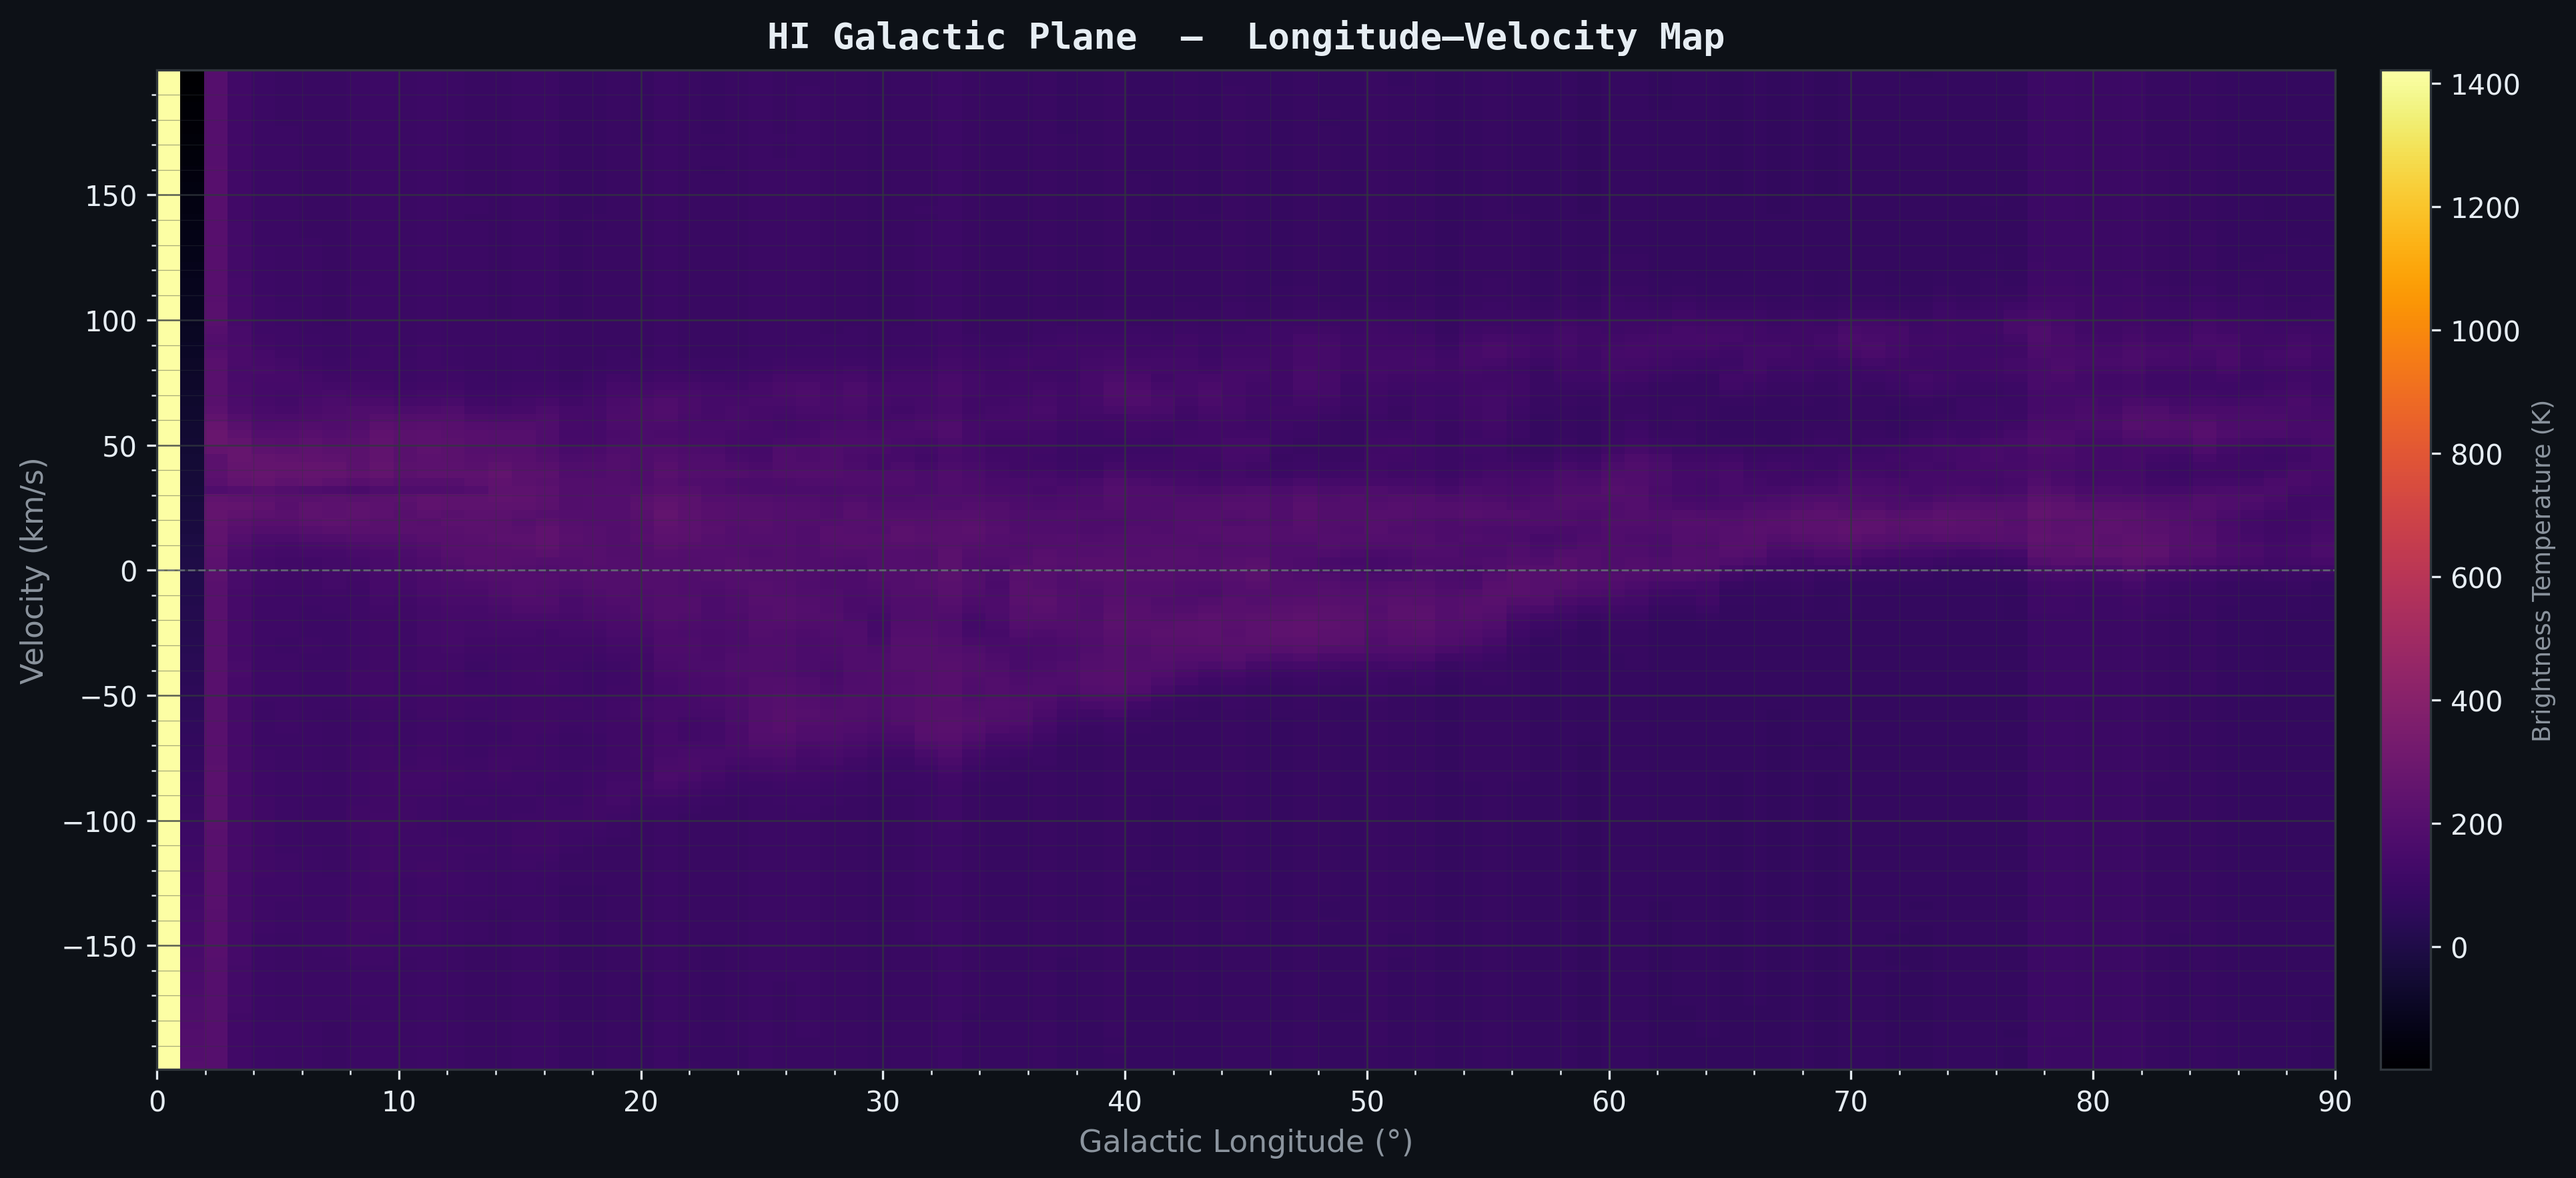
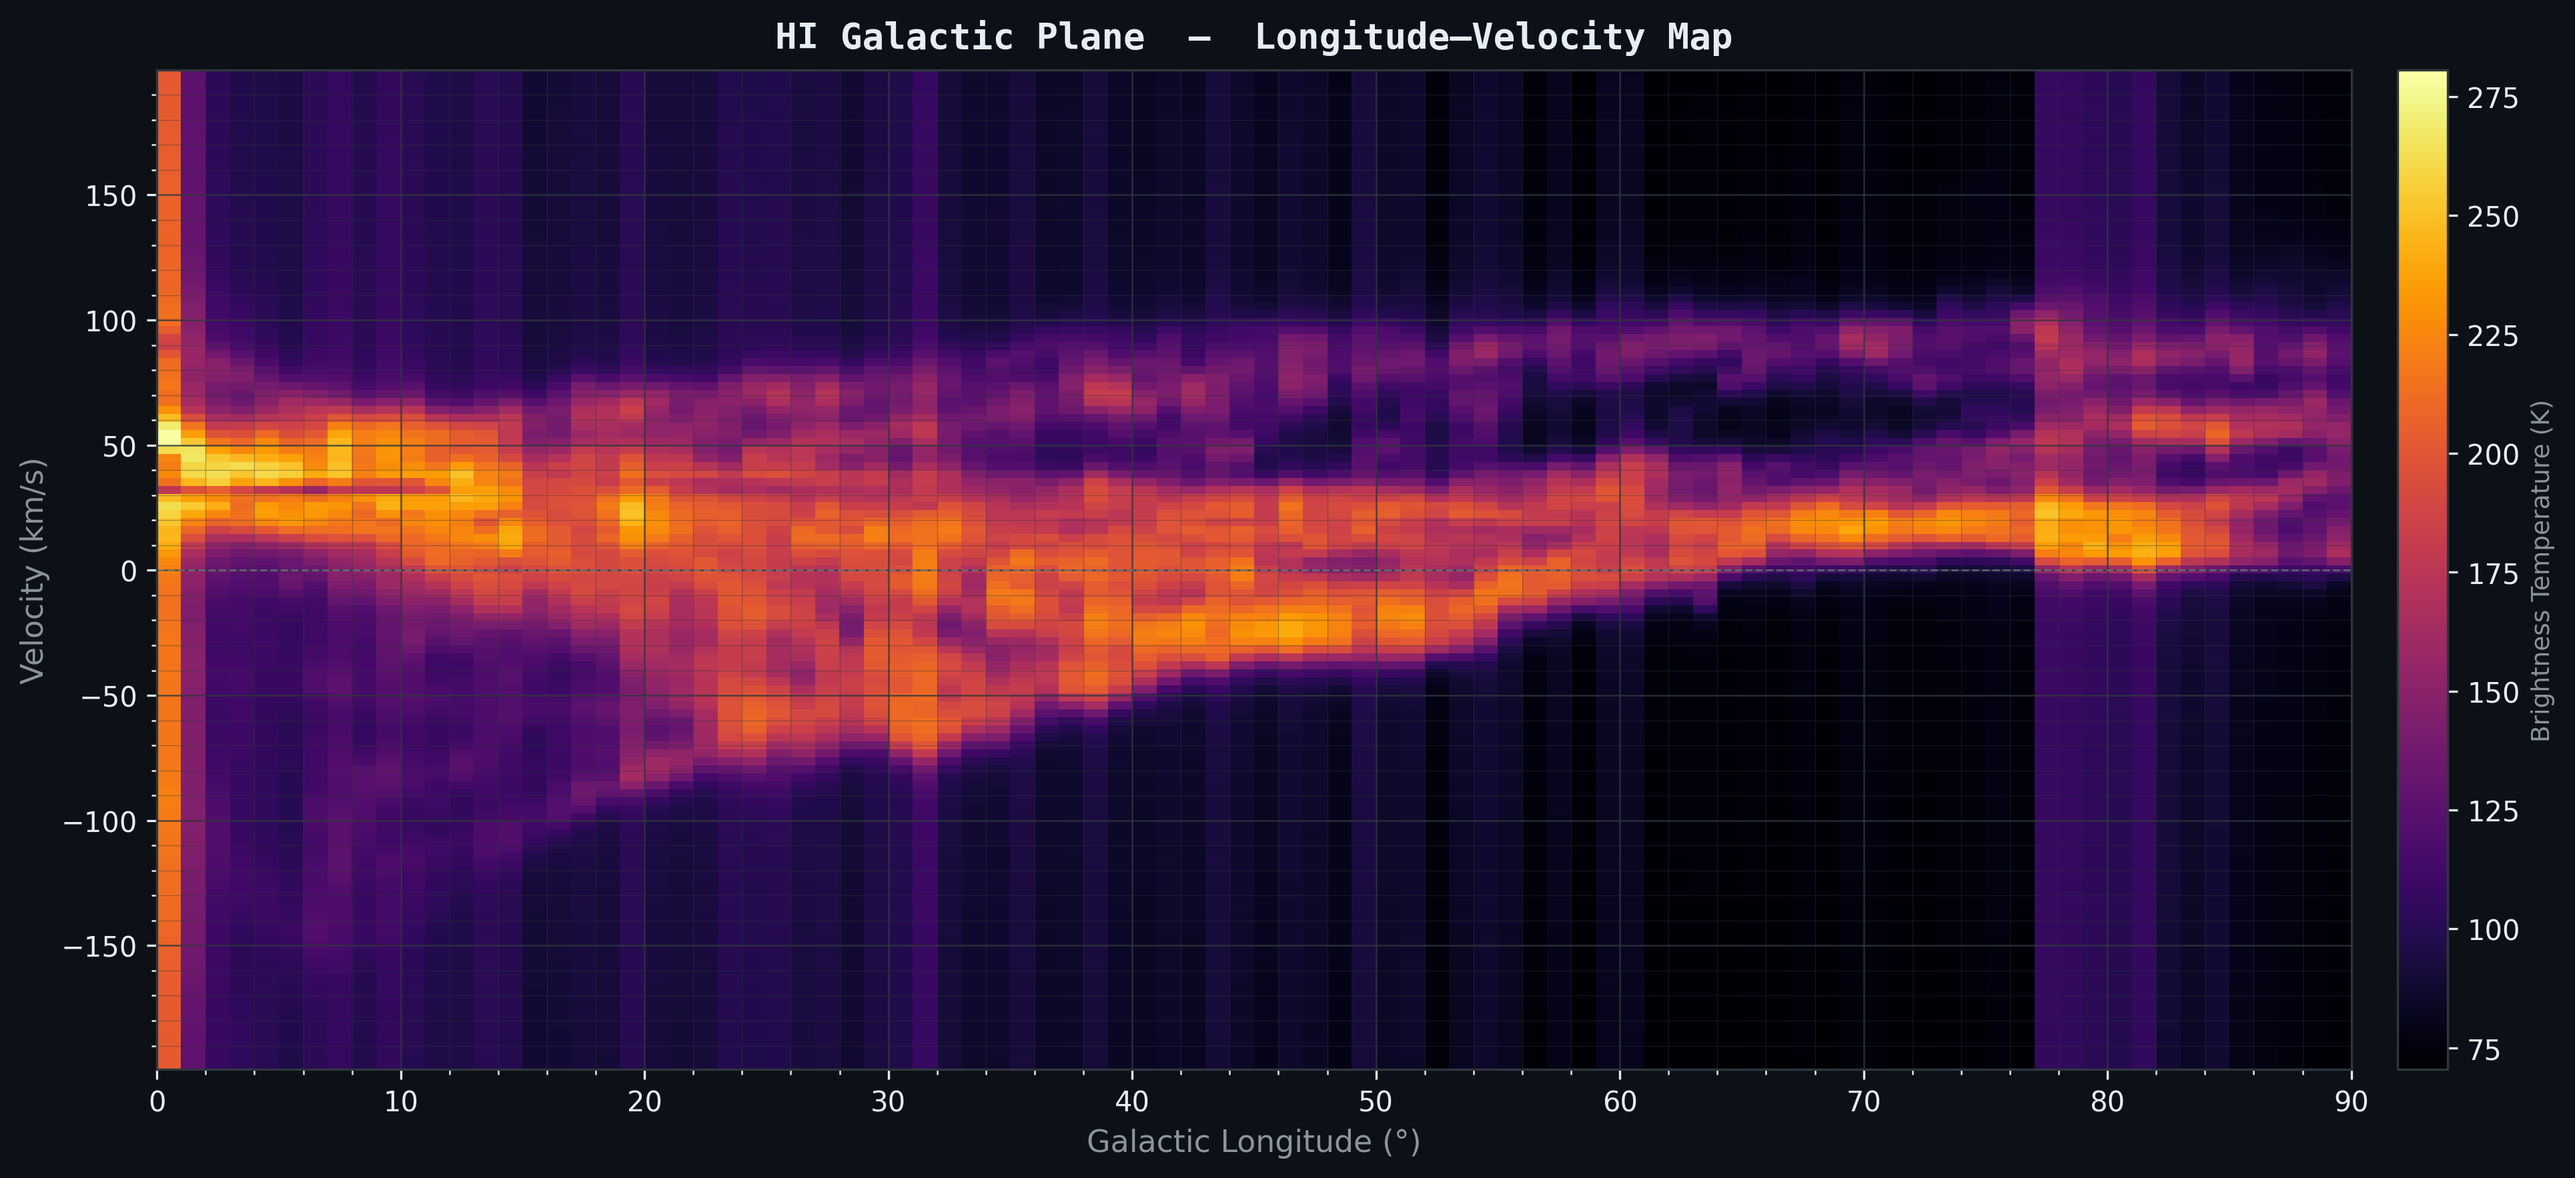
Fixed Intensity Plot
Fixed intensity plot,  minor change to exclude freq and vel columns in df.

diff --git a/Processing/Plotting.py b/Processing/Plotting.py
@@ -250,12 +250,12 @@ def spectra_plot(data):
     spectra.set_index('Velocity',drop=True,inplace=True)
     vel_axis=data['Velocity']
 
-    intensity_cols = [c for c in data.columns if c in [i for i in range(0,91)]]
+    intensity_cols = [c for c in data.columns if isinstance(c, (int, float))]
     spectra = data[intensity_cols].to_numpy()
 
     vel_mask= (vel_axis >= -200) & (vel_axis <= 200)
     vel_axis_zoom= vel_axis[vel_mask]
-    spectra_zoom = data[vel_mask]
+    spectra_zoom = spectra[vel_mask]
 
     fig, ax = plt.subplots(figsize=(13, 6))
     fig.patch.set_facecolor(DARK_BG)
